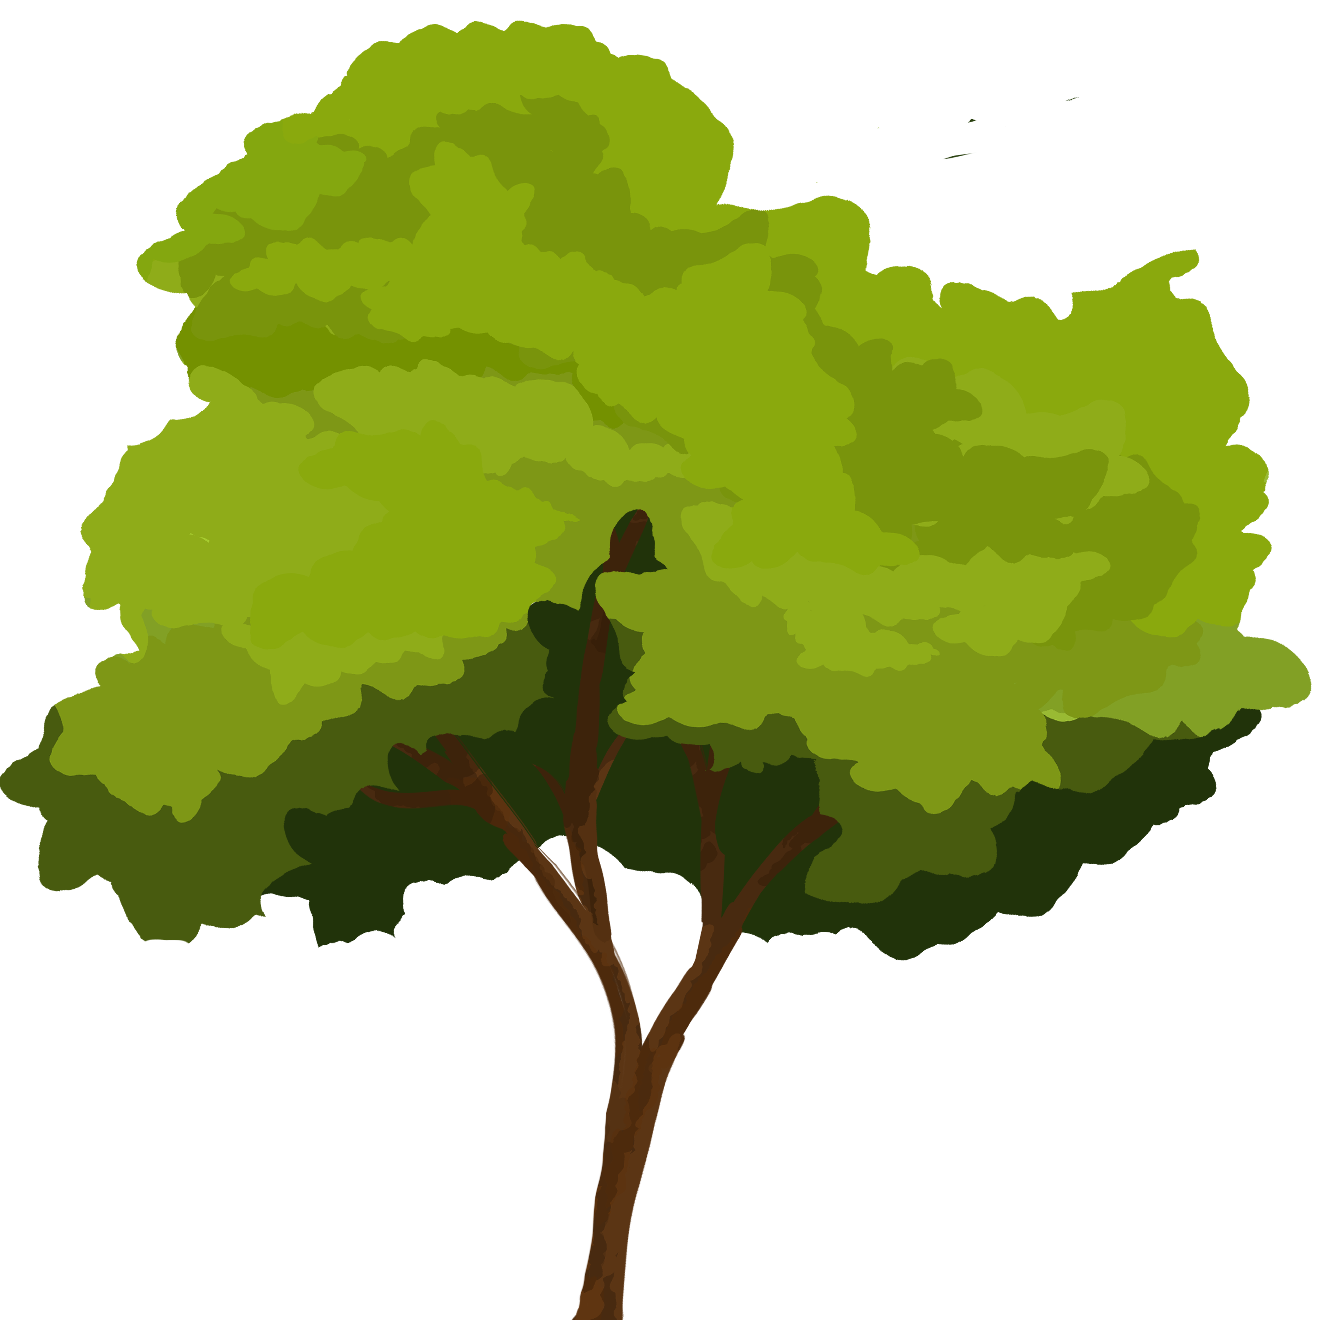
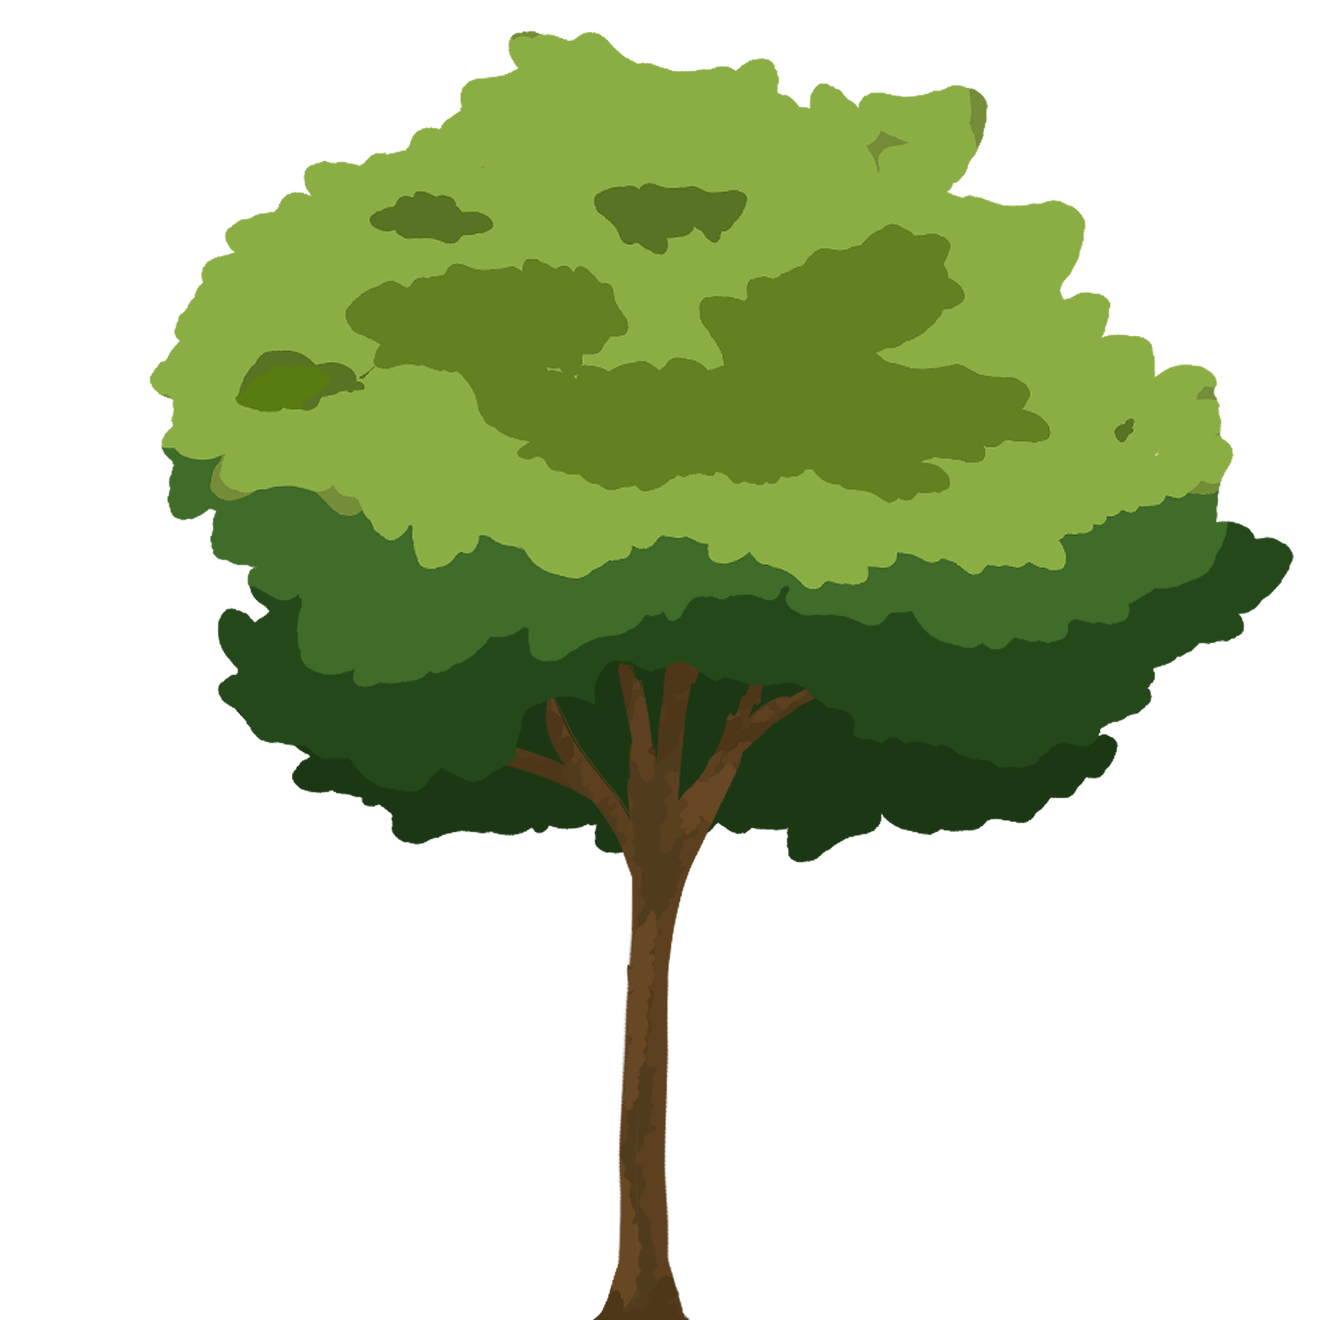
Ajout arbre + generation

diff --git a/2Fast4U/terrain.cpp b/2Fast4U/terrain.cpp
@@ -264,8 +264,8 @@ void Terrain::generateTerrain()
         }
 
         if (i % 150 == 0 && i > 100 && i < 500) {
-            line.obstacles.append(Obstacle("arbre", 1, 6.0f, 0.025f, 2));
-            line.obstacles.append(Obstacle("arbre", 1, -6.0f, 0.025f, 2));
+            line.obstacles.append(Obstacle("arbre0", 1, 6.0f, 0.025f, 2));
+            line.obstacles.append(Obstacle("arbre0", 1, -6.0f, 0.025f, 2));
         }
 
         // 2. Danger dans la montée/virage : Roches proches de la piste
@@ -287,14 +287,85 @@ void Terrain::generateTerrain()
 
         // 5. Grosse Montagne : Arbres denses sur les côtés
         if (i % 100 == 0 && i >= 1700 && i < 2300) {
-            line.obstacles.append(Obstacle("arbre", 1, 5.5f, 0.025f, 2));
-            line.obstacles.append(Obstacle("arbre", 1, -5.5f, 0.025f, 2));
+            line.obstacles.append(Obstacle("arbre0", 1, 5.5f, 0.025f, 2));
+            line.obstacles.append(Obstacle("arbre0", 1, -5.5f, 0.025f, 2));
         }
 
         // 6. Piège dans la vallée : Combo Roche + Bûche
         if (i == 3000) {
             line.obstacles.append(Obstacle("roche", 1, -2.0f, 0.01f, 2.5f)); // Bloque la gauche
             line.obstacles.append(Obstacle("buche", 1, 1.5f, 0.02f, 2.0f));  // Gêne la droite
+        }
+
+        //Arbre
+        // -----------------------------
+        // GÉNÉRATION DE LA FORÊT (Arbres 0 à 3)
+        // -----------------------------
+        // Moins fréquent que le gazon (1 ligne sur 6 ou 8) pour sauver le CPU
+        if (i % 8 == 0) {
+            // Seulement 2 ou 3 arbres maximum par côté par ligne.
+            // La perspective fera le reste du travail pour rendre ça dense.
+            int treeDensityPerSide = 2;
+
+            for (int t = 0; t < treeDensityPerSide; t++) {
+                // ==========================================
+                // CÔTÉ GAUCHE
+                // ==========================================
+                // On commence plus loin de la route (10.0 au lieu de 6.0) pour éviter les collisions injustes.
+                // Profondeur massive jusqu'à 210.0
+                float randomOffsetLeft = -(10.0f + (rand() % 2000) / 10.0f);
+
+                // Sélectionne au hasard arbre0, arbre1, arbre2 ou arbre3
+                QString typeLeft = "arbre" + QString::number(rand() % 4);
+
+                // L'échelle d'un arbre doit être bien plus grande que celle du gazon.
+                // Modifie ces valeurs (0.025 à 0.040) selon la taille réelle de tes images PNG.
+                float scaleLeft = 0.025f + (rand() % 15) / 1000.0f;
+
+                line.obstacles.append(Obstacle(typeLeft, 1, randomOffsetLeft, scaleLeft, 2.0f));
+
+                // ==========================================
+                // CÔTÉ DROIT
+                // ==========================================
+                float randomOffsetRight = 10.0f + (rand() % 2000) / 10.0f;
+
+                QString typeRight = "arbre" + QString::number(rand() % 4);
+                float scaleRight = 0.025f + (rand() % 15) / 1000.0f;
+
+                line.obstacles.append(Obstacle(typeRight, 1, randomOffsetRight, scaleRight, 2.0f));
+            }
+        }
+
+        // Gazon
+        if (i % 2 == 0) {
+            int grassDensityPerSide = 7;
+
+            for (int g = 0; g < grassDensityPerSide; g++) {
+                // ==========================================
+                // CÔTÉ GAUCHE (Indépendant)
+                // ==========================================
+                // On a passé le rand de 800 à 2500. 
+                // Le décalage va maintenant de -6.0 jusqu'à -256.0. C'est immense.
+                float randomOffsetLeft = -(6.0f + (rand() % 2500) / 10.0f);
+                bool isTallLeft = (rand() % 100 < 25);
+
+                QString typeLeft = isTallLeft ? "grass" : "grass";
+                float scaleLeft = isTallLeft ? (0.009f + (rand() % 9) / 1000.0f) : (0.004f + (rand() % 3) / 1000.0f);
+
+                line.obstacles.append(Obstacle(typeLeft, 1, randomOffsetLeft, scaleLeft, 2.0f));
+
+                // ==========================================
+                // CÔTÉ DROIT (Indépendant)
+                // ==========================================
+                // Décalage entre 6.0 et 256.0.
+                float randomOffsetRight = 6.0f + (rand() % 2500) / 10.0f;
+                bool isTallRight = (rand() % 100 < 25);
+
+                QString typeRight = isTallRight ? "grass" : "grass";
+                float scaleRight = isTallRight ? (0.009f + (rand() % 9) / 1000.0f) : (0.004f + (rand() % 3) / 1000.0f);
+
+                line.obstacles.append(Obstacle(typeRight, 1, randomOffsetRight, scaleRight, 2.0f));
+            }
         }
 
         lines.push_back(line);

diff --git a/2Fast4U/line.h b/2Fast4U/line.h
@@ -5,6 +5,7 @@
 #include <QPixmap>
 #include <QDebug>
 #include "obstacle.h"
+#include "spritemanager.h"
 
 constexpr static float ROAD_W = 9.5f;
 constexpr static float SEG_L = 3.0f;
@@ -44,9 +45,11 @@ struct Line {
 
         static const QColor FOG_COLOR(135, 206, 235);
 
+        int fogIndex = std::max(0, std::min(9, (int)(fogFactor * 10)));
+
         for(const Obstacle& obstacle : obstacles){
-            QPixmap sprite = obstacle.getCurrentFrame();
-            if(sprite.isNull()) continue;
+            QString cacheKey = obstacle.getSpriteName() + QString::number(obstacle.getCurrentFrame()) + "_fog" + QString::number(fogIndex);
+            const QPixmap& sprite = SpriteManager::get(cacheKey);
 
             int w = sprite.width();
             int h = sprite.height();
@@ -71,12 +74,9 @@ struct Line {
 
             float srcVisibleH = (visibleH / destH) * h;
 
-            // Applique le brouillard
-            QPixmap finalSprite = obstacle.getFoggedFrame(fogFactor);
-
             painter.drawPixmap(
                 QRectF(destX, destY, destW, visibleH),
-                finalSprite,
+                sprite,
                 QRectF(0, 0, w, srcVisibleH)
             );
 

diff --git a/2Fast4U/spritemanager.h b/2Fast4U/spritemanager.h
@@ -5,11 +5,11 @@
 #include <QHash>
 #include <QString>
 #include <QDebug>
+#include <QPainter>
 
 class SpriteManager {
 public:
     static const QPixmap& get(const QString& id);
-
 private:
     static void loadSprite(QHash<QString, QPixmap>& map, const QString& id, const QString& path);
 };
